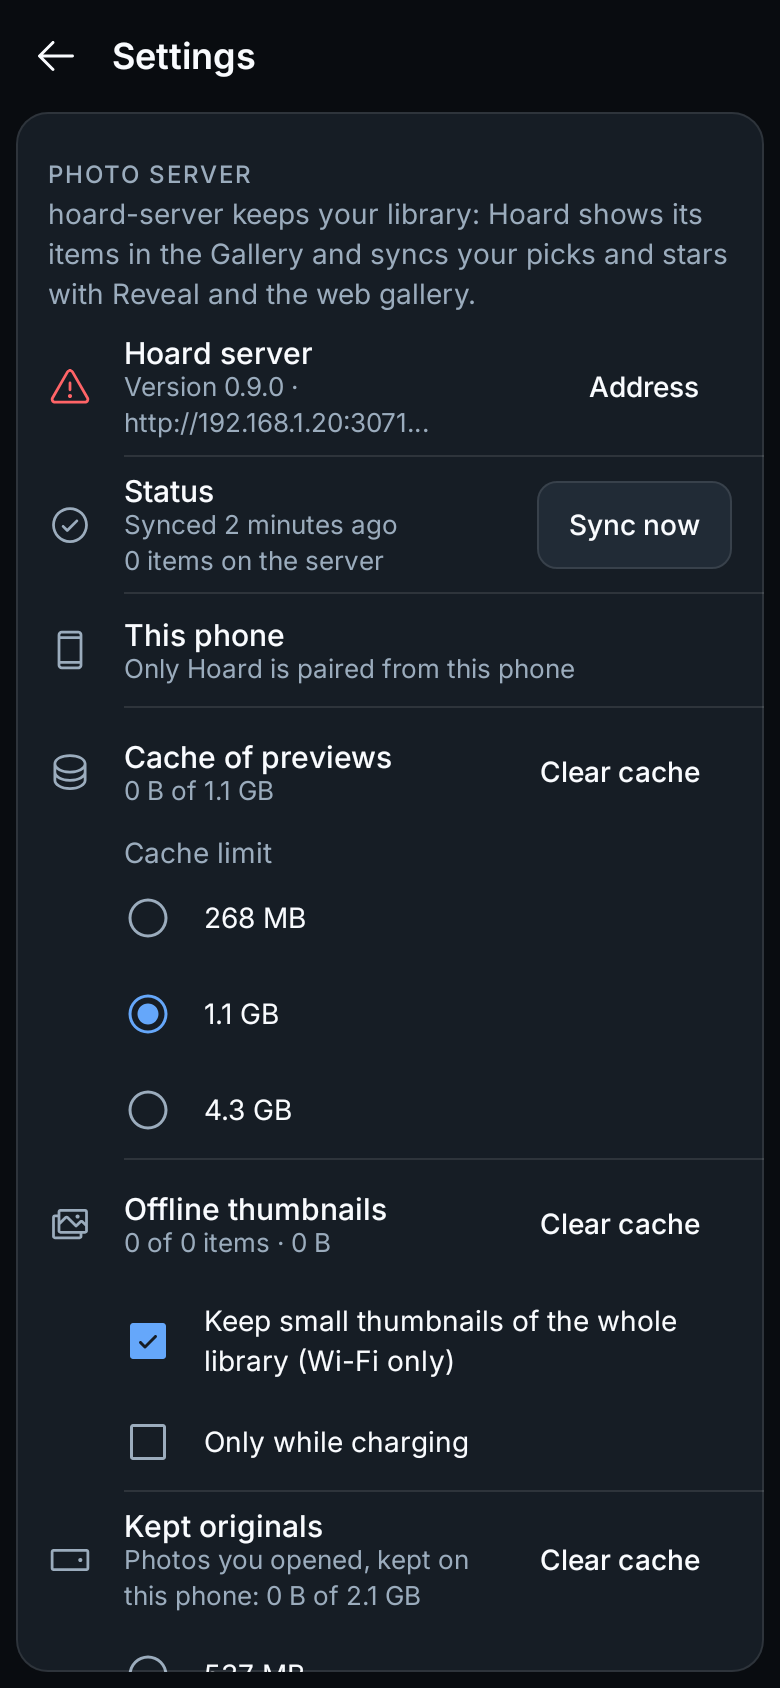
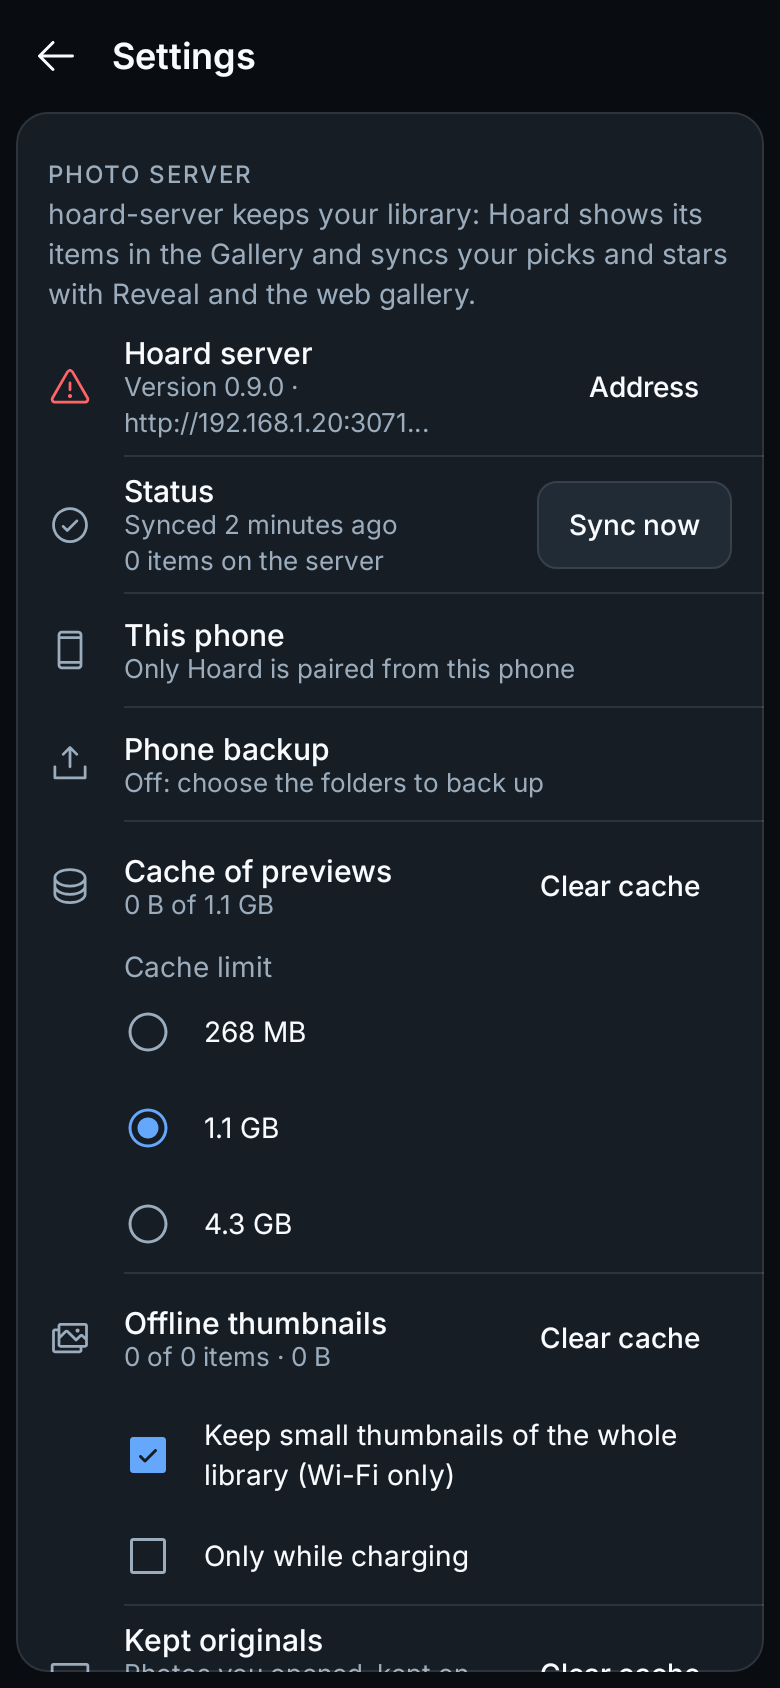
Phone backup A1: emulator E2E (docs/testing/backup.md), charging = plugged in, charging run appended, refusal reasons in words, goldens

diff --git a/android/core/server/src/main/java/dev/hfps/hoard/server/backup/BackupWorker.kt b/android/core/server/src/main/java/dev/hfps/hoard/server/backup/BackupWorker.kt
@@ -110,12 +110,19 @@ class BackupWorker(context: Context, params: WorkerParameters) : CoroutineWorker
             WorkManager.getInstance(context).enqueueUniqueWork(NOW, ExistingWorkPolicy.KEEP, request)
         }
 
-        /** Videos (or everything, with "Only while charging") wait for the charger: one run once it is plugged in. */
+        /**
+         * Videos (or everything, with "Only while charging") wait for the charger: one run once it is plugged in. One
+         * waits at a time; when the charging run itself leaves files waiting (unplugged again), one more follows it.
+         */
         fun whileCharging(context: Context, rules: BackupRules = BackupRules()) {
             val request = OneTimeWorkRequestBuilder<BackupWorker>()
                 .setConstraints(constraints(rules, charging = true))
                 .build()
-            WorkManager.getInstance(context).enqueueUniqueWork(CHARGING, ExistingWorkPolicy.KEEP, request)
+            val manager = WorkManager.getInstance(context)
+            val states = runCatching { manager.getWorkInfosForUniqueWork(CHARGING).get().map { it.state } }.getOrDefault(emptyList())
+            // One waiting is enough; called from the charging run itself (unplugged again meanwhile), one follows it.
+            if (states.any { it == WorkInfo.State.ENQUEUED || it == WorkInfo.State.BLOCKED }) return
+            manager.enqueueUniqueWork(CHARGING, if (WorkInfo.State.RUNNING in states) ExistingWorkPolicy.APPEND_OR_REPLACE else ExistingWorkPolicy.REPLACE, request)
         }
 
         fun cancel(context: Context) {

diff --git a/android/native/src/main/java/dev/hfps/hoard/app/backup/PhoneBackup.kt b/android/native/src/main/java/dev/hfps/hoard/app/backup/PhoneBackup.kt
@@ -224,9 +224,11 @@ class PhoneBackup(
                 val caps = cm.getNetworkCapabilities(cm.activeNetwork)
                 caps != null && caps.hasCapability(NetworkCapabilities.NET_CAPABILITY_NOT_METERED)
             }.getOrDefault(false)
+            // "While charging" = plugged in (what WorkManager's charging constraint means too): the battery's sticky
+            // broadcast says so at once, while BatteryManager.isCharging lags behind the plug and is false when full.
             val charging = runCatching {
-                val bm = context.getSystemService(BatteryManager::class.java)
-                bm.isCharging || bm.getIntProperty(BatteryManager.BATTERY_PROPERTY_STATUS) == BatteryManager.BATTERY_STATUS_FULL
+                val battery = context.registerReceiver(null, android.content.IntentFilter(android.content.Intent.ACTION_BATTERY_CHANGED))
+                (battery?.getIntExtra(BatteryManager.EXTRA_PLUGGED, 0) ?: 0) != 0
             }.getOrDefault(false)
             return Conditions(unmetered, charging)
         }

diff --git a/docs/testing/backup.md b/docs/testing/backup.md
@@ -1,0 +1,42 @@
+# Phone backup (Hoard 2.4.0, ADR 0024 phase A1): tests and the emulator run
+
+## JVM and Robolectric (`cd android && ./gradlew testDebugUnitTest`)
+
+| Suite | What it checks |
+| --- | --- |
+| `:core:server` `BackupPlanTest` | kinds by extension and where a file was found (PNG/WebP/GIF stills, DNG from MediaStore, CR3 and `.xmp` by listing); the rules (Wi-Fi before charging, videos while charging); merge of a listing (new, unchanged, changed: upload abandoned, identity from the index); removals only after a complete, non-empty listing, `moved` when the content is elsewhere; every report answer (`stored`, `nas`, `verified: yes`, `missing`, `in_progress` with `retryAfter`, `refused`); uploads newest first and due; backoff; `changed`; a folder's counts |
+| `:core:server` `BackupEngineTest` (fake hoard-server 0.12.0, `FakeBackup`) | a pass end to end: `wait: true` and `claim: false` on every upload, small files' SHA-256 from the fingerprint read, nothing reported twice; a NAS duplicate referenced, never uploaded; **a run stopped after two chunks resumes from the stored upload id** (`HEAD`, then the remaining chunks only); `in_progress` waited for `retryAfter`; `checksum_mismatch` → `changed` → hashed again and sent; a revoked key (`401`); `409 covered` and a parent absorbing a child root; a stopped root resumed, `503 storage_not_configured`; a per-entry `refused` and an older server's `422` (the bad entry only); deletions and a rename after a complete listing only (no upload for the rename); the rules; All files access adding RAWs and sidecars and patching the root's `types`; turning a folder off |
+| `:core:server` `GalleryMigrationTest` | `gallery.db` 3 → 4: index and queue kept, the new hash columns empty, the backup tables usable |
+| `:native` `BackupFoldersTest` | the folder list (roots with their sub-folders, the rest off, grouped Camera, Screenshots, WhatsApp, others, SD cards last), labels, "Add a folder" input (relative, absolute, SD card, hidden refused), the Gallery's badge priority |
+| `:native` `BackupScreenshotTest` | goldens (copies in [`backup/goldens/`](backup/goldens/)): `backup_{phone_light,phone_dark,tablet_light}`, `backup_running_phone_light`, `backup_off_phone_light`, `backup_old_server_phone_light`, `backup_files_phone_{light,dark}`; `gallery_settings_paired_phone_dark` gained the Phone backup row |
+
+## Emulator run (2026-11-16)
+
+Emulator `hoard-backup-a1` (API 36 Google Play image, `-memory 3072 -no-window`, port 5580, made for the run and
+deleted after), the debug build. My own hoard-server built from the `mirror-formats` branch (3110059: 0.12.0 with PNG,
+WebP and GIF for mirrors and per-entry refusals) with [`backup/server.sh`](backup/server.sh): temporary data and backup
+folders, the synthetic NAS folder mounted **read-only** at `/mnt/nas`, `127.0.0.1:3994` → `http://10.0.2.2:3994`
+typed by hand (pairing link pasted). Synthetic files only: [`backup/make-files.py`](backup/make-files.py) (noise JPEGs,
+a PNG, an MP4, a fake CR3 and an `.xmp`; the NAS holds a byte copy of one phone photo). Driven with `adb shell input` and
+`uiautomator dump`; the server checked with its admin API (`GET /admin/api/backup`), its log, and the tree and
+manifests inside the container ([`backup/e2e/server-tree.txt`](backup/e2e/server-tree.txt)). Container, image, proxy
+and emulator removed afterwards.
+
+| Step | Result | Screenshot |
+| --- | --- | --- |
+| Settings › Photo server › Phone backup, nothing on | Camera and Screenshots listed off with counts | `e2e/e01-backup-off.png` |
+| Camera and Screenshots on | the periodic work ran at once (constraints met) as a foreground `dataSync` worker: 4 uploaded, the NAS copy referenced (`nas:nas/Phone/…` in the manifest, no upload); mirror files are hard links (`nlink 2`, mode `0400`); the PNG went with the debounced run 2 minutes later | `e2e/e02-backup-on.png` |
+| A 31 MB photo through a 1.5 MB/s proxy ([`tools/proxy.mjs`](tools/proxy.mjs), loopback only), process killed (`run-as … kill -9`) after 2 chunks | the row kept its upload id at 16 MiB; WorkManager ran the work again in a new process: `HEAD`, one `PATCH`, complete, no new `POST /v1/uploads`; the server's file has the phone's SHA-256 | `e2e/e03-uploading.png` |
+| Rename `PXL_20261102…` → `Renamed_20261102.jpg` | report `moved`; the tree's link moved to the new name; no upload | — |
+| Wi-Fi off (mobile data, metered), new photo, Back up now | "1 waiting for Wi-Fi"; the Gallery cell shows the waiting badge | `e2e/e05-waiting-wifi.png`, `e2e/e06-gallery-badge.png` |
+| Wi-Fi on, unplugged (`dumpsys battery unplug`), new video | the photo uploaded, the video "waiting for charging"; plugging in (`dumpsys battery reset`) ran the charging-constrained work by itself, which uploaded the video | `e2e/e07-waiting-charging.png` |
+| All files access (`appops … MANAGE_EXTERNAL_STORAGE allow`), back to Hoard | the screen asked for a run; both roots `PATCH`ed to `image, video, raw, sidecar`; `IMG_0001.CR3` (MediaStore does not list it) and `IMG_0001.xmp` uploaded | `e2e/e08-raw-on.png` |
+| A photo deleted on the phone | reported `deleted`: the file stays in the tree, `on_device 0` in the manifest | — |
+
+Found and fixed during the run: the charging check used `BatteryManager.isCharging`, which still said "not charging" a
+moment after the plug (and is false when full), so the run the charger started paused the video again; it now reads
+the battery's sticky broadcast (plugged in = charging, as WorkManager's constraint), and the charging run's own
+follow-up is appended instead of dropped by `KEEP`.
+
+Note: the periodic work runs immediately when a first folder is turned on and its constraints hold (WorkManager starts
+a new periodic work at once); app start-up only keeps it (`UPDATE`) and never runs a pass itself.

diff --git a/CLAUDE.md b/CLAUDE.md
@@ -79,6 +79,10 @@ change one only through the Hoard ↔ Reveal coordinator. Read `README.md` and
   only (ADR 0010 "Server items"). E2E against your own hoard-server container: `docs/testing/gallery/README.md`
   (`-Phoard.native.debugSuffix=.gallery` for another debug id, `-Phoard.native.benchRelease=true` for a debug-signed
   R8 build to measure frames).
+- **Phone backup** (ADR 0024, A1): `:core:server` `backup/` (`BackupPlan` pure, `BackupUploader`, `BackupEngine` over a
+  `BackupSource`, `BackupWorker` with `BackupHost` = the application), `gallery.db` 4 (`backup_roots`, `backup_files`,
+  `freed`); `:native` `backup/PhoneBackup.kt` and `ui/backup/`. Hashing and uploads only inside the worker. E2E:
+  `docs/testing/backup.md`.
 - **hoard-server** (`server/`, ADR 0012; protocol of record ADR 0013, `server/api/openapi.yaml`; items ADR 0014; culling ADR 0016; physical devices ADR 0017; Reveal's edited previews ADR 0020): Go +
   SQLite, formerly Reveal's `reveal-sync`. `cd server && go vet ./... && go test ./...` (Go from `server/go.mod`;
   includes an end-to-end test, `TestOpensRevealSyncDataDir`, `TestUpgradesHoardServer040DataDir` and
